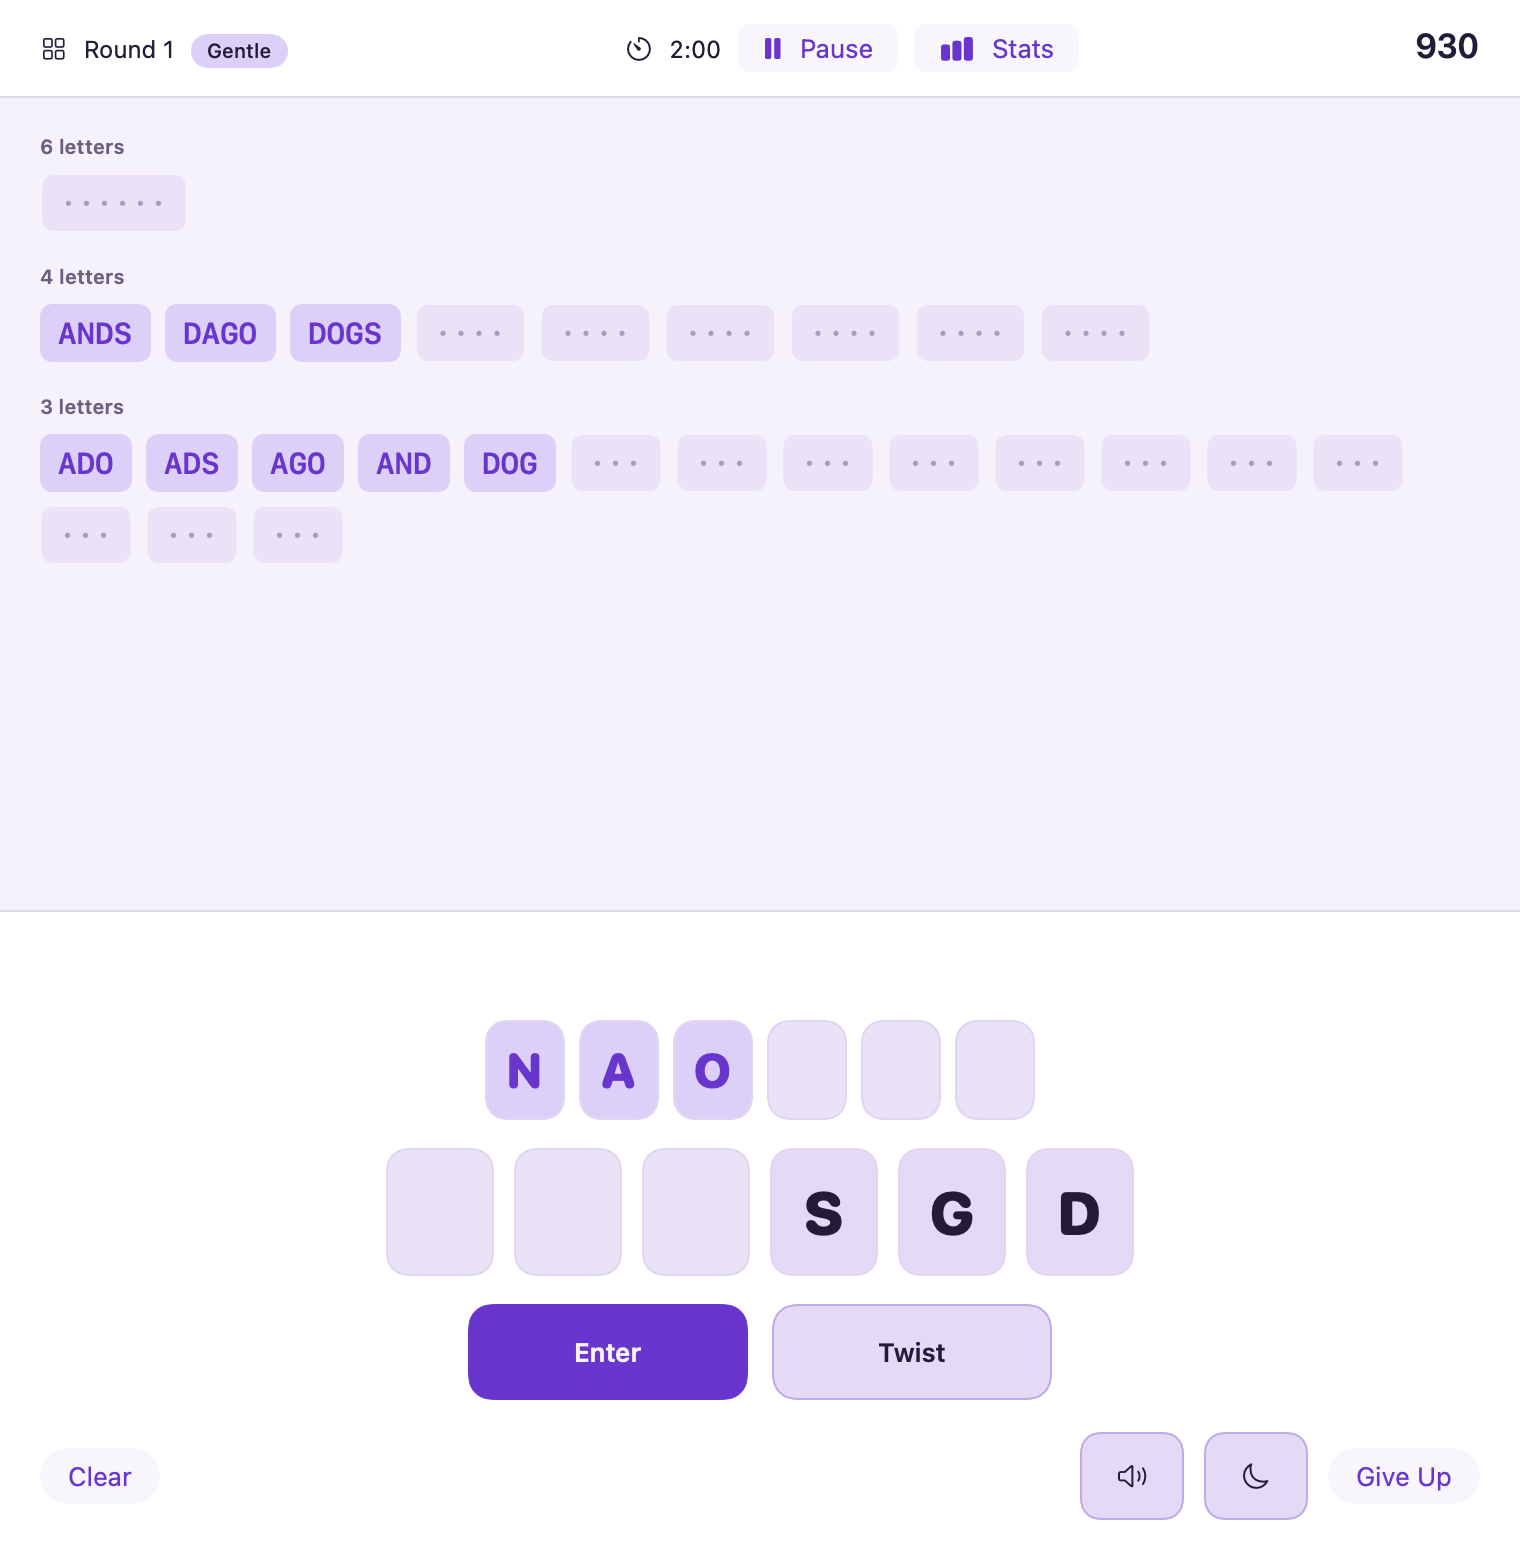
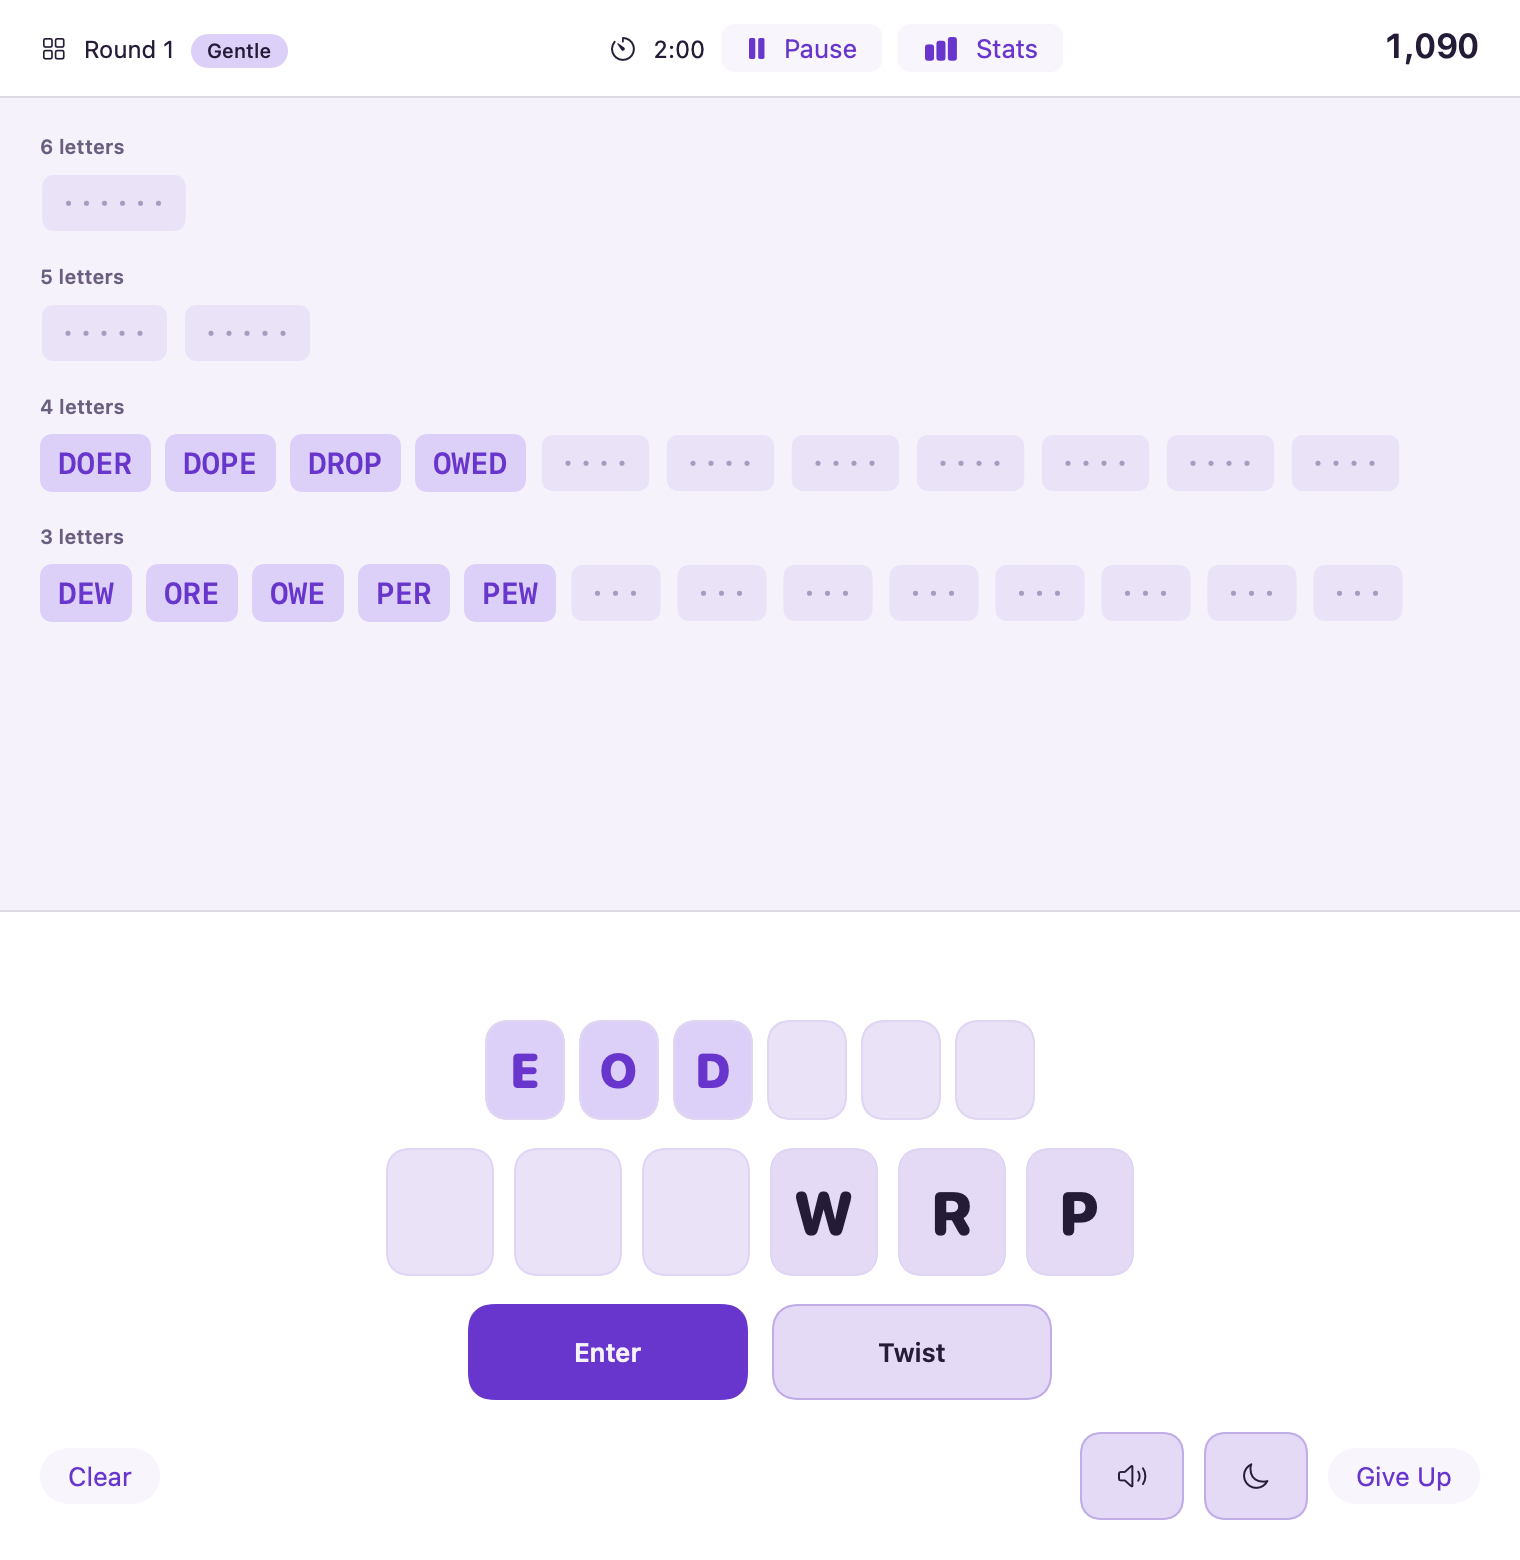
Lead each length group with the words already found
Within a group, found words come first in discovery order; the rest follow
alphabetically.

Measured against 120 real racks rather than chosen. Every slot in a group
is the same width and every unfound one renders as identical dots, so
moving unfound slots is invisible; only found words can be seen to move.
Packing found words to the front cuts the distance from one found word to
the next from 216pt to 153pt, a 29% reduction. Keeping them in discovery
order rather than re-sorting holds visible displacement at zero, where
re-sorting the found block alphabetically moved earlier finds 113pt each
time a word was added.

Found words no longer read alphabetically, which would matter if the board
were how you checked for a duplicate. Submitting one says so instead.

diff --git a/Sources/TwistKit/Round.swift b/Sources/TwistKit/Round.swift
@@ -95,14 +95,40 @@ public struct Round: Sendable {
         wordScore + Scoring.bonus(forWordScore: wordScore, completed: isComplete)
     }
 
-    /// The common words grouped by length, each group sorted, longest group first.
+    /// The common words grouped by length, longest group first. Within a group, the words you
+    /// have found come first in the order you found them, then the rest.
     ///
-    /// This is what the board shows as empty slots. Seeing that a rack holds four five-letter
-    /// words is most of the game's guidance, and the original showed exactly this.
+    /// This is what the board shows as slots. Seeing that a rack holds four five-letter words
+    /// is most of the game's guidance, and the original showed exactly this.
+    ///
+    /// The ordering is measured rather than chosen. Every slot in a group is the same width
+    /// and every unfound one renders as identical dots, so rearranging unfound slots is
+    /// invisible — only found words can be seen to move. Against 120 real racks, packing found
+    /// words to the front cut the distance the eye travels from one found word to the next by
+    /// 29% (216pt to 153pt). Keeping them in discovery order rather than re-sorting them means
+    /// a word already on the board never moves again: measured visible displacement is zero,
+    /// where re-sorting the found block alphabetically moved earlier finds by 113pt each time.
+    ///
+    /// The cost is that found words are no longer alphabetical, which would matter if you had
+    /// to scan the board to check whether you had already played something. You do not —
+    /// submitting a duplicate says so.
     public var commonWordsByLength: [(length: Int, words: [LexiconEntry])] {
-        Dictionary(grouping: solutions.filter(\.isCommon)) { $0.word.count }
+        let discoveryRank = Dictionary(
+            uniqueKeysWithValues: foundWords.enumerated().map { ($0.element, $0.offset) })
+
+        return Dictionary(grouping: solutions.filter(\.isCommon)) { $0.word.count }
             .sorted { $0.key > $1.key }
-            .map { (length: $0.key, words: $0.value.sorted { $0.word < $1.word }) }
+            .map { length, words in
+                let sorted = words.sorted { left, right in
+                    switch (discoveryRank[left.word], discoveryRank[right.word]) {
+                    case let (l?, r?): l < r          // both found: order of discovery
+                    case (_?, nil): true              // found words lead
+                    case (nil, _?): false
+                    case (nil, nil): left.word < right.word
+                    }
+                }
+                return (length: length, words: sorted)
+            }
     }
 
     /// The common words left on the table, longest first — what the post-round review shows.

diff --git a/Tests/TwistKitTests/RoundTests.swift b/Tests/TwistKitTests/RoundTests.swift
@@ -142,3 +142,31 @@ private func makeRound() -> Round {
     #expect(Scoring.points(forWordOfLength: 7) == 490)
     #expect(Scoring.points(forWordOfLength: 2) == 0)
 }
+
+@Test func foundWordsLeadTheirGroupInDiscoveryOrder() {
+    var round = makeRound()
+    // Board starts fully unfound: plain alphabetical within each length group.
+    let fiveLetters = { round.commonWordsByLength.first { $0.length == 5 }?.words.map(\.word) }
+    #expect(fiveLetters() == ["steam", "tears"])
+
+    // "tears" is alphabetically second but found first, so it leads.
+    round.submit("tears")
+    #expect(fiveLetters() == ["tears", "steam"])
+
+    // Finding the other one appends it; the first never moves again.
+    round.submit("steam")
+    #expect(fiveLetters() == ["tears", "steam"])
+}
+
+@Test func orderingNeverAddsOrLosesWords() {
+    var round = makeRound()
+    let before = Set(round.commonWordsByLength.flatMap { $0.words.map(\.word) })
+    for word in ["sea", "stream", "tears"] { round.submit(word) }
+    let after = round.commonWordsByLength
+    #expect(Set(after.flatMap { $0.words.map(\.word) }) == before)
+    // Groups stay longest-first, and each group holds one length.
+    #expect(after.map(\.length) == after.map(\.length).sorted(by: >))
+    for group in after {
+        #expect(group.words.allSatisfy { $0.word.count == group.length })
+    }
+}
